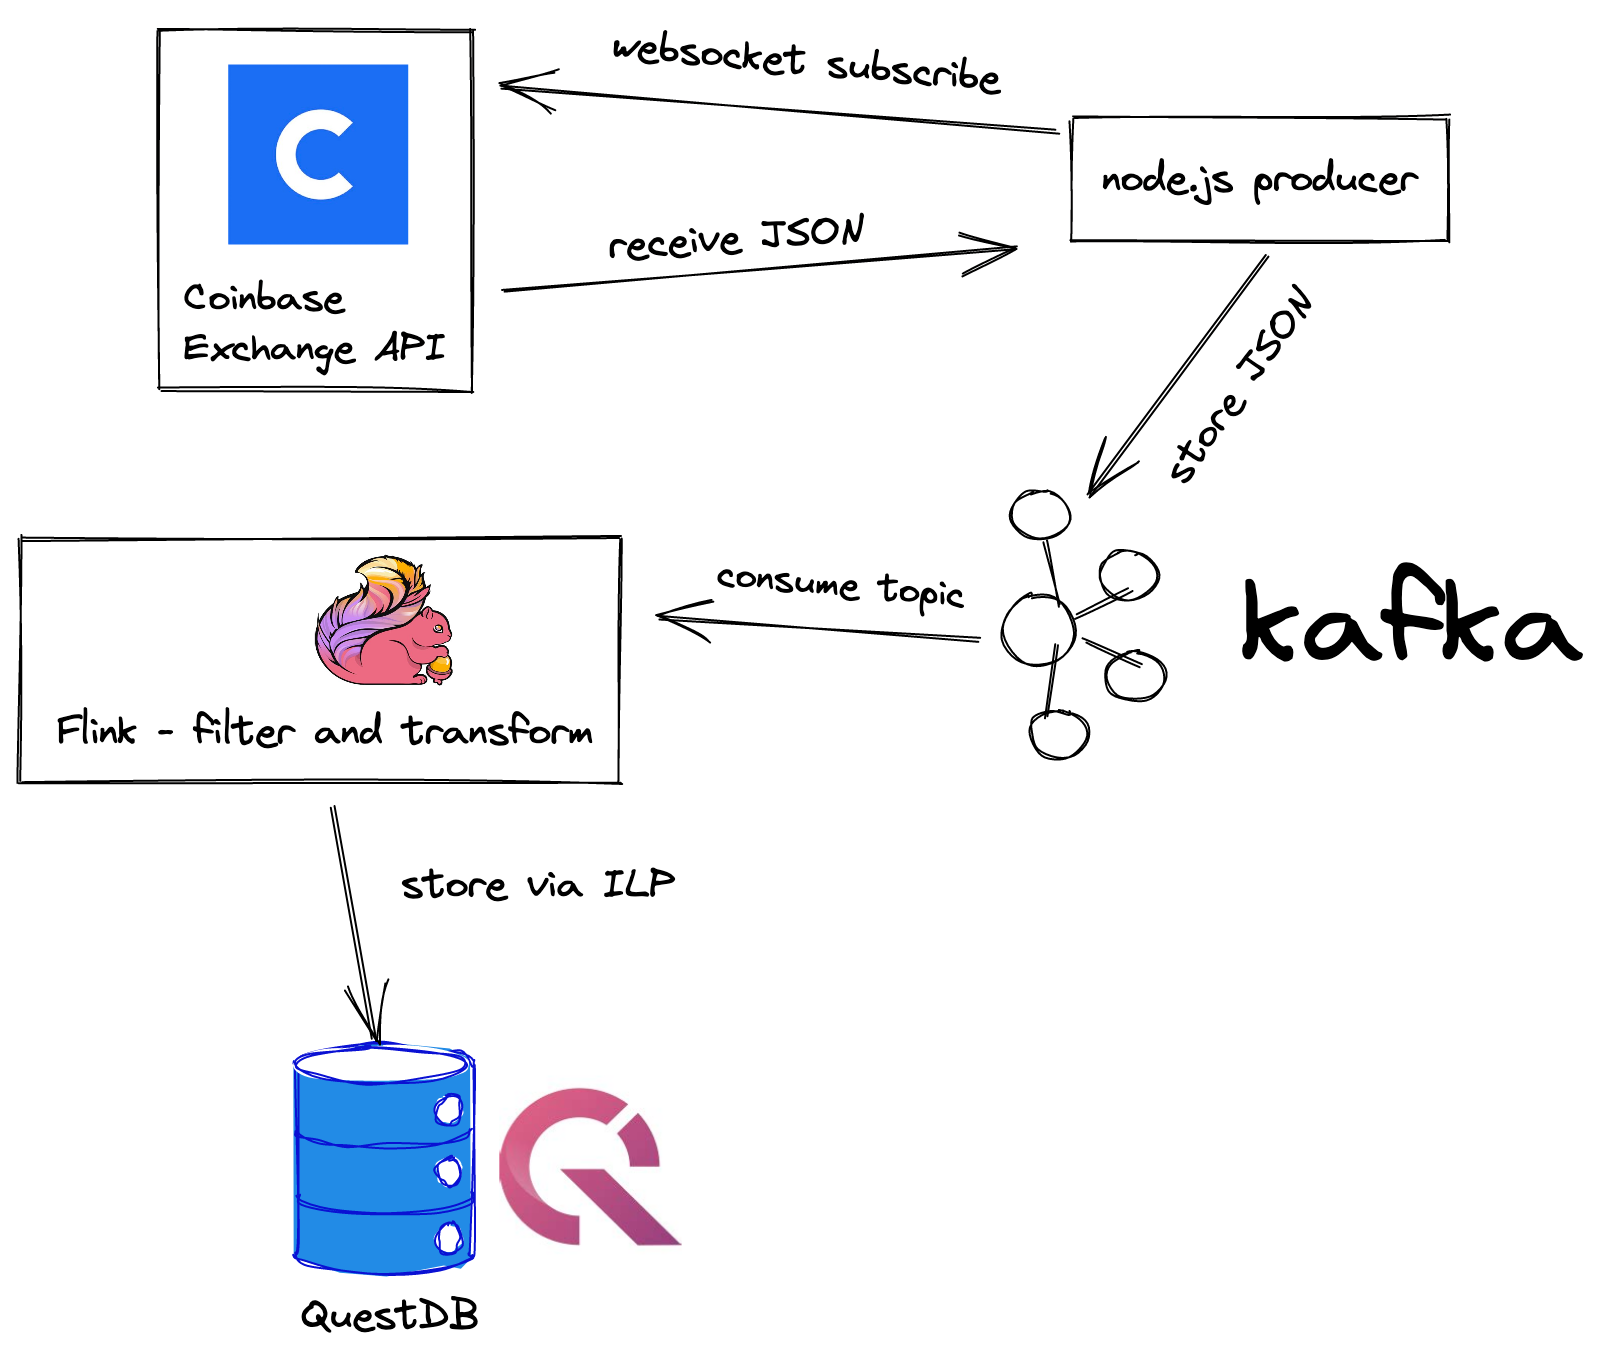
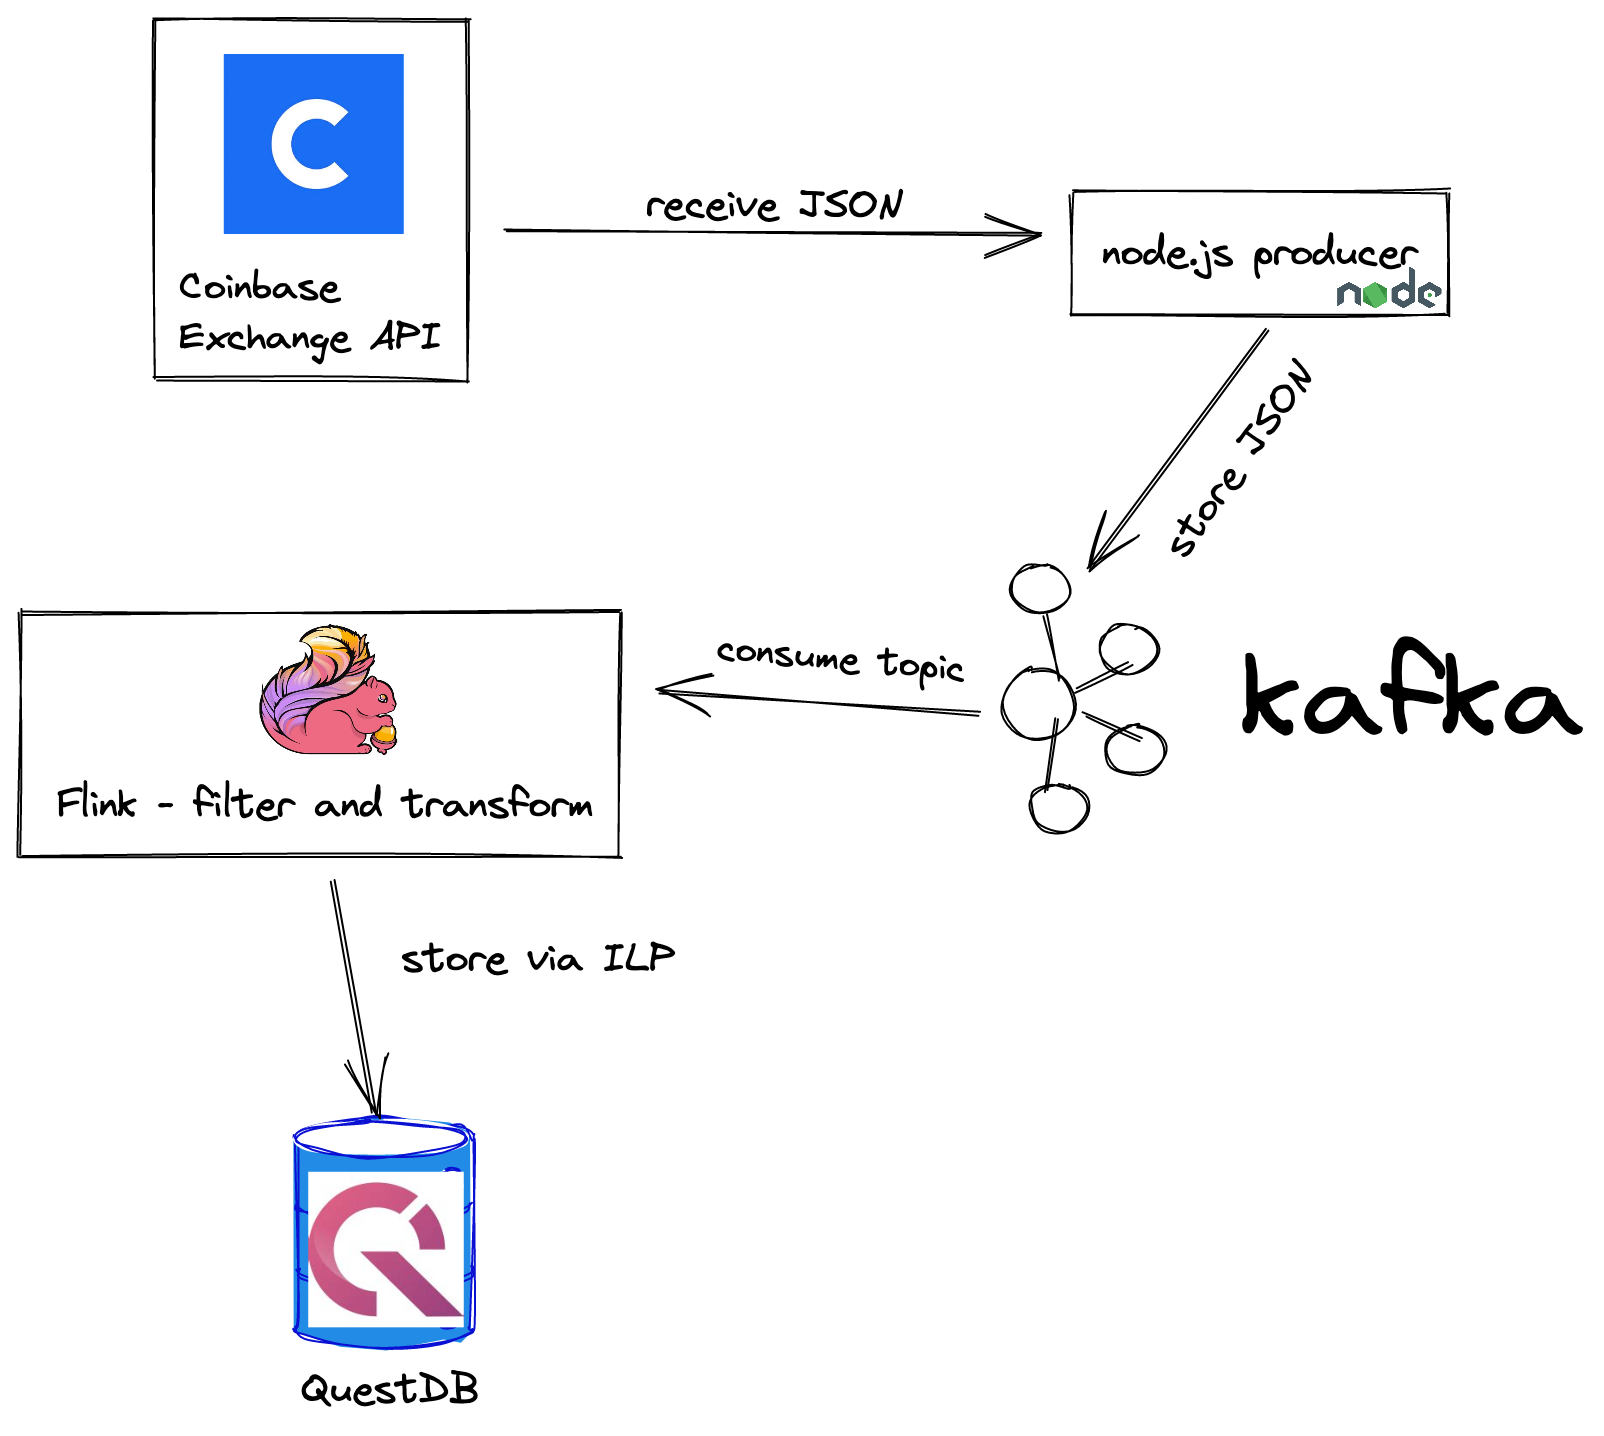
how does work added

diff --git a/samples/coinbase-to-kafka-to-questdb/src/main/java/org/questdb/flink/KafkaToQuestDB.java b/samples/coinbase-to-kafka-to-questdb/src/main/java/org/questdb/flink/KafkaToQuestDB.java
@@ -43,7 +43,7 @@ public class KafkaToQuestDB {
                 .build());
 
         tEnv.executeSql("insert into Quest "
-                + "select product_id as instrument, "
+                + "select product_id, "
                     + "changeTable.change[1] as side, "
                     + "cast(changeTable.change[2] as double) as price, "
                     + "cast(changeTable.change[3] as double) as volume\n"

diff --git a/samples/coinbase-to-kafka-to-questdb/readme.md b/samples/coinbase-to-kafka-to-questdb/readme.md
@@ -1,14 +1,6 @@
 # Sample project with Flink QuestDB connector
 ## What does the sample project do?
-The project uses Coinbase API to fetch live orders and store them in QuestDB where the orders can be analyzed further. Technicaly, it's split into 2 parts.
-1. Coinbase -> Kafka
-2. Kafka -> QuestDB 
-
-![Diagram](diagram.png)
-
-The first part is a small node.js application. It does nothing else but connect to the Exchange API, subscribe to a bunch of channels and then store all incoming JSON data into a Kafka topic. 
-
-The 2nd part is more interesting. It uses Apache Flink for data filtering, transformations and ingestion to QuestDB. 
+The project uses Coinbase API to fetch live orders and store them in QuestDB where the orders can be analyzed further. 
 
 The application is packaged as Docker containers thus it can run locally on most platforms.
 
@@ -29,3 +21,129 @@ The project was tested on MacOS with M1, but it should work on other platforms t
 - Go to the [QuestDB console](http://localhost:19000) and run `select * from orders` and you should see some rows.
 - Congratulations, the connector is working!
 - You can play with the [application](src/main/java/org/questdb/flink/KafkaToQuestDB.java) source code to change behaviour. See [Flink Table API documentation](https://nightlies.apache.org/flink/flink-docs-release-1.15/docs/dev/table/tableapi/) for more information. 
+
+## How does it work:
+Technicaly, it's split into 2 parts.
+1. Coinbase -> Kafka
+2. Kafka -> QuestDB
+
+
+![Diagram](diagram.png)
+
+The first part is a [small node.js application](../producer/index.js). It does nothing else but connect to the Exchange API, subscribe to a bunch of channels and then store all incoming JSON data into a Kafka topic.
+
+The 2nd part is more interesting. It uses Apache Flink for data filtering, transformations and ingestion to QuestDB. The [sample program combines](src/main/java/org/questdb/flink/KafkaToQuestDB.java) Table API and SQL to interact with Flink. The program has 3 parts:
+1. Define Kafka table
+2. Define QuestDB table
+3. Transformation pipeline to move data from Kafka to Quest
+
+Table definitions are rather trivial (TODO: Why watermarks don't work?) so let's focus on the transformation pipeline as it's doing a bit more than just moving data from Kafka to Quest, but before diving into it let's look at JSON data we receive from the exchange.
+
+This is how a simple order update looks like:
+```json
+{
+  "type": "l2update",
+  "product_id": "BTC-USD",
+  "changes": [
+    [
+      "buy",
+      "20994.53",
+      "0.03931200"
+    ]
+  ],
+  "time": "2022-09-09T11:38:11.480952Z"
+}
+```
+It looks trivial, but it is not. Pay attention to the `changes` field. There is an array of array. The outer array has just a single element - another array. But the message could also look like this:
+```json
+{
+  "type": "l2update",
+  "product_id": "BTC-USD",
+  "changes": [
+    [
+      "buy",
+      "20994.53",
+      "0.03931200"
+    ],
+    [
+      "buy",
+      "20941.12",
+      "0.01245100"
+    ]
+  ],
+  "time": "2022-09-09T11:38:11.480952Z"
+}
+```
+QuestDB does not support arrays. We need to rid off the array before sending the data to QuestDB. In turns out Apache Flink has a good support for this case: It has a function `UNNEST()` which transforms array elements into rows. Then it's enough to use CROSS JOIN to connect UNESTED rows from array with the original table again.
+
+Consider this example. Let's have a table `fruits` which looks as follows:
+
+| Fruit     | Price     | Parts              |
+|-----------|-----------|--------------------|
+| Apple     | 1.99      | [seed, pulp, skin] |
+| Raspbeery | 1.89  | [pulp, seeds]      |
+
+We have a table with 3 columns: Fruit - string, Price - String, Parts - array of string.
+The table has 2 rows.
+
+We can use the UNNEST() function to unpack the arrays:
+```sql
+select fruit, price, part
+from fruits
+cross join UNNEST(fruits.parts) (part)
+```
+The result of this query would look like this:
+
+| Fruit     | Price     | Part         |
+|-----------|-----------|--------------|
+| Apple     | 1.99      | seed         |
+| Apple     | 1.99      | pulp         |
+| Apple     | 1.99      | skin         |
+| Raspbeery | 1.89  | pulp |
+| Raspbeery | 1.89  | seeds |
+
+Basically it transforms an arrya into additional rows.
+In the pipeline this is expressed as this:
+```sql
+SELECT product_id as instrument, changeTable.change[1] as side, changeTable.change[2] as price, changeTable.change[3] as volume, ts
+FROM ticks
+CROSS JOIN UNNEST(ticks.changes) AS changeTable (change)
+```
+It transforms the outer array into rows and then use Flink arrary operators to extract the inner array.
+
+There is another complication: Our Kafka topic contains more than these updates. We also receive other kinds of message from Coinbase. This mimic a real-world situation where Kafka is use as a backbone for all data in a company and our Flink application is just one of many consumers and have a little say on the content of the topic. Here is an example of such message:
+```json
+{
+  "type": "ticker",
+  "sequence": 45041380791,
+  "product_id": "BTC-USD",
+  "price": "20995.9",
+  "open_24h": "19312.1",
+  "volume_24h": "31442.38277446",
+  "low_24h": "19014.43",
+  "high_24h": "21192.09",
+  "volume_30d": "709000.13313165",
+  "best_bid": "20993.74",
+  "best_ask": "20997.23",
+  "side": "buy",
+  "time": "2022-09-09T11:38:10.887937Z",
+  "trade_id": 408344927,
+  "last_size": "0.47628368"
+}
+```
+We want to ignore all message which do not have a type set as `l2update`. SQL `WHERE` clause comes to the rescue. The SQL looks like this:
+```sql
+SELECT product_id , changeTable.change[1] as side, changeTable.change[2] as price, changeTable.change[3] as volume, ts
+FROM ticks
+CROSS JOIN UNNEST(ticks.changes) AS changeTable (change)
+WHERE type = 'l2update';
+```
+This would only select the `l2update` messages and the outer array. So the last missing bit is to INSERT the matching message into QuestDB. That's as easy as prepending the SELECT with `INSERT into <tableName>` this the final SQL looks like this:
+``sql
+INSERT INTO Quest
+SELECT product_id , changeTable.change[1] as side, changeTable.change[2] as price, changeTable.change[3] as volume, ts
+FROM ticks
+CROSS JOIN UNNEST(ticks.changes) AS changeTable (change)
+WHERE type = 'l2update';
+``
+And that's all!
